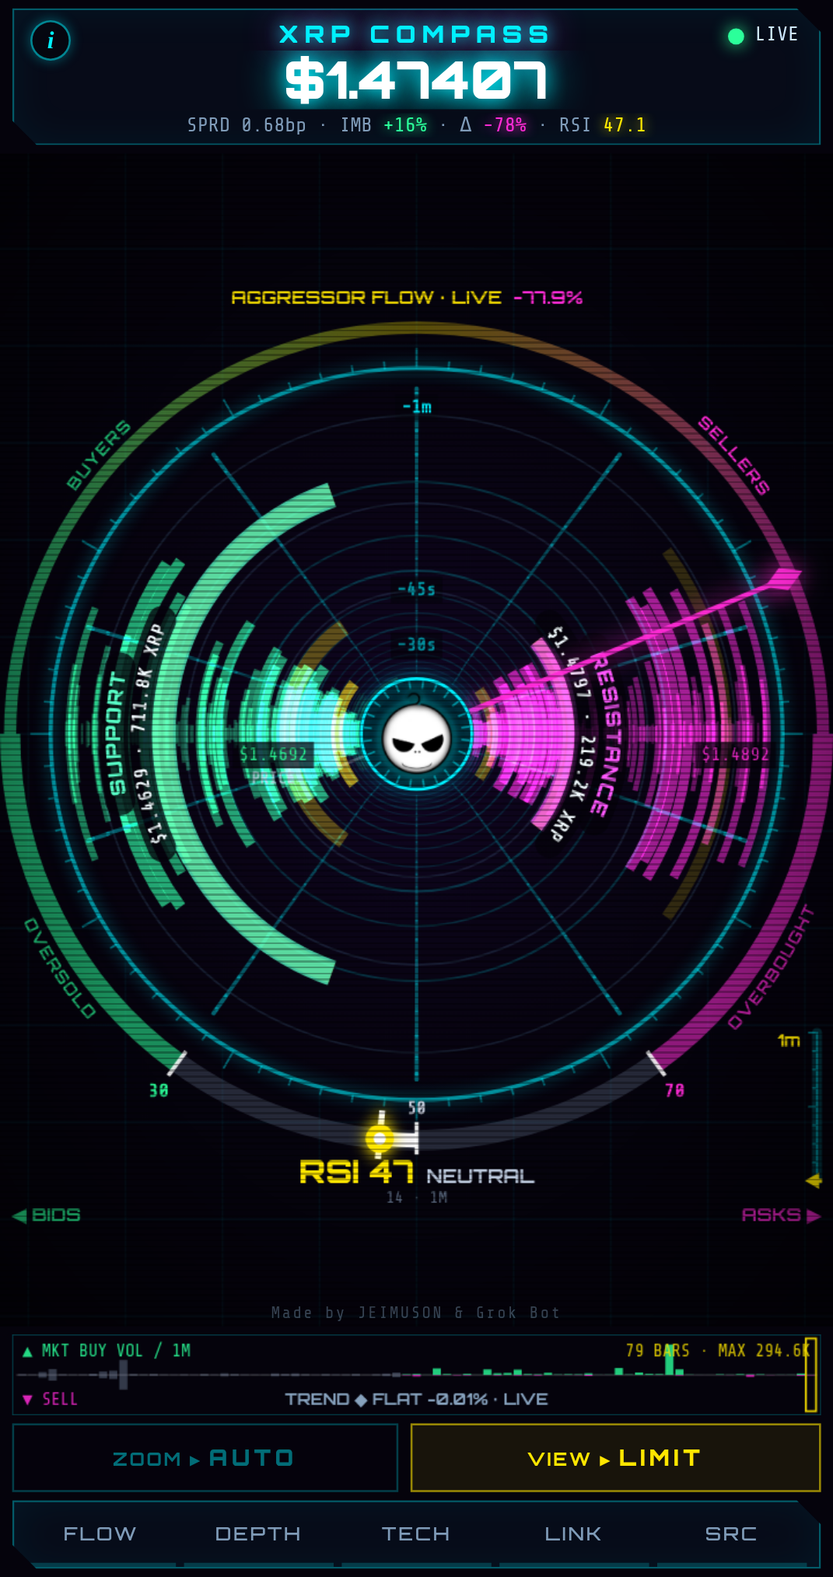
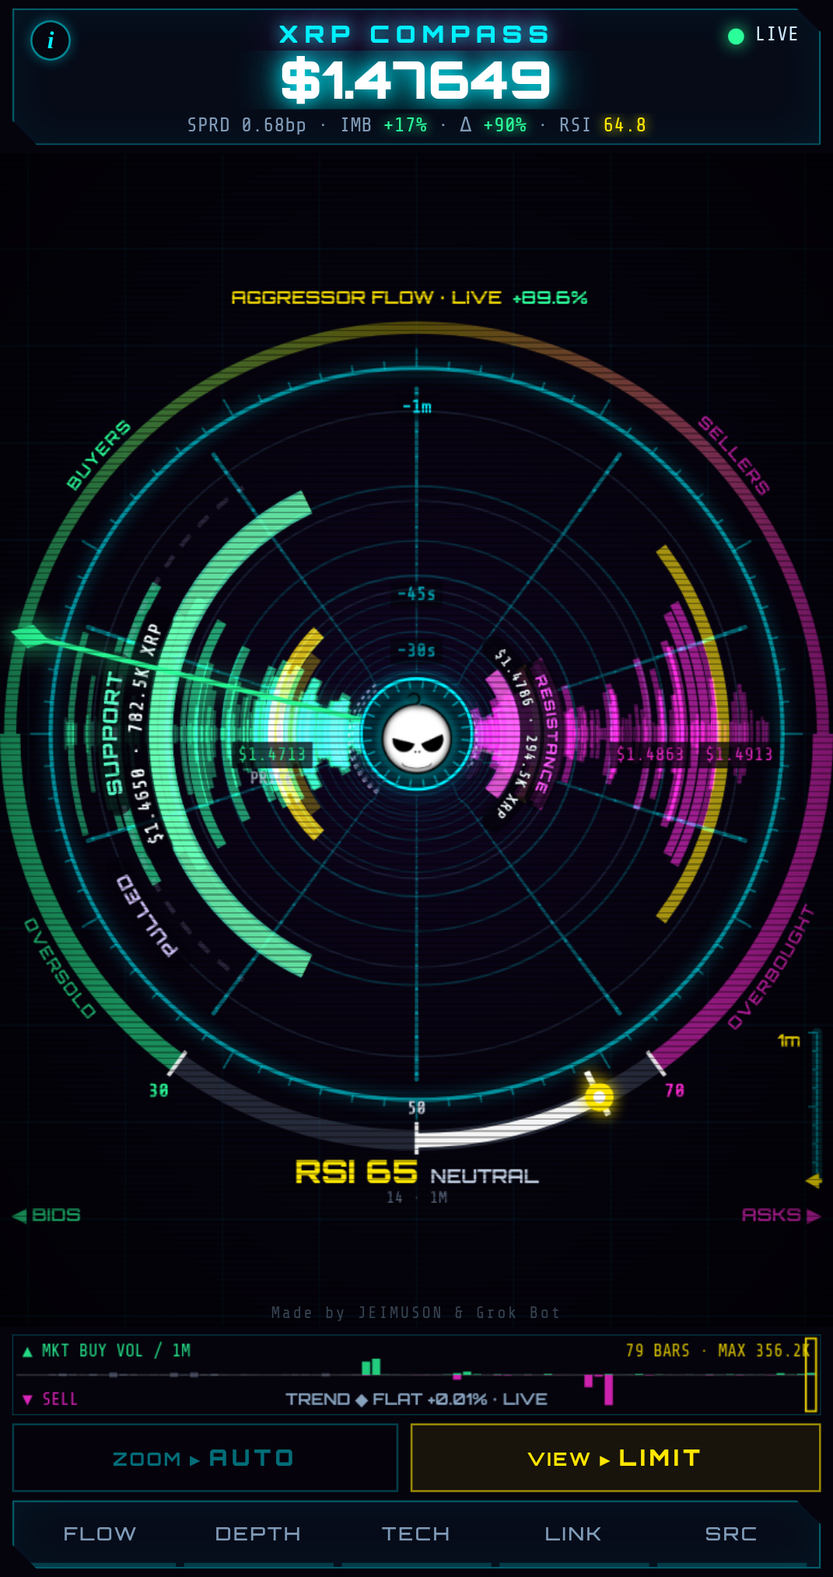
LIMIT: EATEN vs PULLED wall hint (per-venue attribution), bite flash / ghost outline / PULLED-SPOOF? tags; info line (build 20261002-1710)

diff --git a/index.html b/index.html
@@ -3,7 +3,7 @@
 <head>
 <meta charset="utf-8">
 <meta http-equiv="Cache-Control" content="no-cache, no-store, must-revalidate"><meta http-equiv="Pragma" content="no-cache"><meta http-equiv="Expires" content="0">
-<script>window.OFC_BUILD='20261002-1635';(function(){try{if(!/^https?:/.test(location.protocol))return;fetch(location.pathname+'?_='+Date.now(),{cache:'no-store'}).then(r=>r.text()).then(t=>{const m=t.match(/OFC_BUILD='([^']+)'/);if(m&&m[1]!==window.OFC_BUILD&&sessionStorage.getItem('ofcB')!==m[1]){sessionStorage.setItem('ofcB',m[1]);location.replace(location.pathname+'?v='+m[1]+location.hash);}}).catch(()=>{});}catch(e){}})();</script>
+<script>window.OFC_BUILD='20261002-1710';(function(){try{if(!/^https?:/.test(location.protocol))return;fetch(location.pathname+'?_='+Date.now(),{cache:'no-store'}).then(r=>r.text()).then(t=>{const m=t.match(/OFC_BUILD='([^']+)'/);if(m&&m[1]!==window.OFC_BUILD&&sessionStorage.getItem('ofcB')!==m[1]){sessionStorage.setItem('ofcB',m[1]);location.replace(location.pathname+'?v='+m[1]+location.hash);}}).catch(()=>{});}catch(e){}})();</script>
 <meta name="viewport" content="width=device-width,initial-scale=1,viewport-fit=cover,user-scalable=no">
 <meta name="theme-color" content="#05030c">
 <meta name="color-scheme" content="dark">
@@ -170,7 +170,8 @@ body.hublogo #top .logo{display:none}   /* mobile: logo lives in the compass hub
  <li>Distance from the middle = distance from the current price.</li>
  <li>Bigger, brighter arc = bigger wall.</li>
  <li>New walls start at the center and drift outward over time. A wall that stays is <b>holding</b>; one that vanishes was <b>pulled or eaten</b>.</li>
- <li><b class="gr">SUPPORT</b> / <b class="rd">RESISTANCE</b> = the strongest nearby wall on each side.</li></ul>
+ <li><b class="gr">SUPPORT</b> / <b class="rd">RESISTANCE</b> = the strongest nearby wall on each side.</li>
+ <li><b>EATEN</b> (bright bite flash) = a wall shrank while trades hit its price. <b>PULLED</b> (ghostly dashed outline) = it vanished with little trading there; repeat pulls in one zone = <b>SPOOF?</b> Just a hint: intent can't be proven.</li></ul>
  <h3>AUTO ZOOM</h3>
  <ul><li><b>MARKET:</b> normal traffic shows ~30s, dead-slow up to 60s. Price moves tighten it; volume bursts snap to a 15s vortex.</li>
  <li><b>LIMIT:</b> quiet = 15s; heavy trading zooms out to 1m so you see walls get hit.</li>
@@ -532,7 +533,7 @@ function combine(){
   for(const {bb,aa} of per){for(const [p,q] of bb){const k=+key(p).toFixed(6);bm.set(k,(bm.get(k)||0)+q);}for(const [p,q] of aa){const k=+key(p).toFixed(6);am.set(k,(am.get(k)||0)+q);}}
   // venues/USDT books can overlap slightly; levels on the wrong side of the volume-weighted mid are dropped
   sortedB=[...bm.entries()].filter(x=>x[0]<M).sort((x,y)=>y[0]-x[0]);sortedA=[...am.entries()].filter(x=>x[0]>M).sort((x,y)=>x[0]-y[0]);
-  if(EAT&&sortedB.length>12){const u=Math.min(1,(Date.now()-EAT.t0)/EAT.ms);if(!EAT.px){let bd=1e9;for(const x of sortedB){const d=Math.abs(rOf(dispMid-x[0])-0.55*RMAX);if(d<bd){bd=d;EAT.px=x[0];}}EAT.q0=2*Math.max(...sortedB.map(x=>x[1]),...sortedA.map(x=>x[1]));}const e=sortedB.find(x=>x[0]===EAT.px);if(e)e[1]=EAT.q0*(1-0.9*u);}   // test hook: a bid wall being eaten
+  if(EAT&&sortedB.length>12){const u=Math.max(0,Math.min(1,(Date.now()-EAT.t0-EAT.hold)/EAT.ms));if(!EAT.q0){if(!EAT.px){let bd=1e9;for(const x of sortedB){const d=Math.abs(rOf(dispMid-x[0])-0.55*RMAX);if(d<bd){bd=d;EAT.px=x[0];}}}EAT.q0=2*Math.max(...sortedB.map(x=>x[1]),...sortedA.map(x=>x[1]));}let e=sortedB.find(x=>x[0]===EAT.px);if(!e){e=[EAT.px,0];sortedB.push(e);sortedB.sort((x,y)=>y[0]-x[0]);}e[1]=EAT.q0*(1-(EAT.kind==='pull'?0.98:0.9)*u);}   // test hook: a simulated bid wall (eaten: with fills / pulled: without)
   if(sortedB.length>200)sortedB.length=200;if(sortedA.length>200)sortedA.length=200;
   if(!sortedB.length||!sortedA.length){BREADY=false;return;}
   bestBid=sortedB[0][0];bestAsk=sortedA[0][0];mid=simPx(one?(bestBid+bestAsk)/2:M);if(!dispMid)dispMid=mid;BREADY=true;
@@ -914,7 +915,7 @@ function updRefQ(now){let m=0;for(const h of history){const age=(now-h.t)/1000;i
 // LIMIT fade: newest (at the vanishing point) dim-but-visible, brighter as they rush toward you, fade out as they exit past the ring
 const limFade=(age,dz)=>Math.min(1,0.3+age/Math.min(5,LWIN/8))*(0.3+0.7*(1-dz/HIST_SEC))*Math.max(0,Math.min(1,(LWIN-age)/(LWIN*0.12)));
 function drawHistory(now){
-  updRefQ(now);
+  updRefQ(now);const GH=spGhosts(now);
   ctx.save();ctx.beginPath();ctx.rect(0,0,W,H);ctx.arc(CX,CY,R0*1.02,0,Math.PI*2,true);ctx.clip();   // keep the hub readout clean over the newest datactx.globalCompositeOperation='lighter';
   const stepH=Q===2?1:Q===1?2:3;
   for(let hi=history.length-1-((history.length-1)%stepH);hi>=0;hi-=stepH){const h=history[hi];if(!h)continue;
@@ -924,6 +925,9 @@ function drawHistory(now){
       for(const [px,q] of lv){
         const r=rOf(px-dispMid)*p.s; if(r>RMAX*1.02*p.s)continue;
         const sp=levelSpan(q,REFQ||h.maxq), a0=baseAng(side);
+        {const G=GH.size?GH.get(side+'|'+px):null;if(G&&h.t<=G.tt){   // PULLED: earlier copies of the wall become a ghostly dashed, flickering outline drifting out the tunnel
+          const fl=0.55+0.45*Math.sin(now/70+px*977+hi*1.7),col=G.spoof?'255,110,235':'215,200,255';ctx.save();ctx.setLineDash([Math.max(2,7*p.s),Math.max(2,6*p.s)]);ctx.lineDashOffset=-now/45*p.s;
+          ctx.strokeStyle=`rgba(${col},${((0.38+0.55*fade)*fl).toFixed(3)})`;ctx.shadowColor=`rgba(${col},.8)`;ctx.shadowBlur=Q>0?6:0;ctx.lineWidth=Math.max(1.2,(1.5+3*Math.pow(q/h.maxq,0.6))*p.s);ctx.beginPath();ctx.arc(p.x,p.y,r,a0-sp,a0+sp);ctx.stroke();ctx.restore();continue;}}
         ctx.strokeStyle=rgba(c,0.05+0.32*fade*Math.pow(q/h.maxq,0.5));
         ctx.lineWidth=Math.max(0.6,(1+5*Math.pow(q/h.maxq,0.6))*p.s);
         ctx.beginPath();ctx.arc(p.x,p.y,r,a0-sp,a0+sp);ctx.stroke();
@@ -958,7 +962,7 @@ function drawKeyWalls(now,maxq){   // SUPPORT (bid) / RESISTANCE (ask): highligh
     let LY=lay(1);if(LY.totM>allow)LY=lay(Math.max(0.72,allow/LY.totM));   // short arc -> shrink the text (down to 72%) ...
     const {fs1,fs2,R1,R2,F1,F2,totM}=LY;
     let al=Math.max(0,Math.min(1,(r-R0*1.12)/(R0*0.45)))*Math.max(0,Math.min(1,(allow*1.35-totM)/(allow*0.35)));   // ... then fade if still too long / too close to the hub
-    if(al<=0.03)continue;KLB[side]={r0:R1-3,r1:R2+fs1+3};
+    if(al<=0.03)continue;KLB[side]={r0:R1-3,r1:R2+fs1+3,ah:totM/2+0.04};
     ctx.save();ctx.globalAlpha=al;ctx.textAlign='center';ctx.textBaseline='alphabetic';
     for(const [txt,R,font,col,glow] of [[L1,R1,F1,'#f2fbff',0],[L2,R2,F2,rgba(cc,1),10]]){
       ctx.font=font;const fz=parseFloat(font.split(' ')[1]),th=a0,T=arcText(txt,R,th);
@@ -967,6 +971,86 @@ function drawKeyWalls(now,maxq){   // SUPPORT (bid) / RESISTANCE (ask): highligh
       for(const ch of T.ch){const x=CX+Math.cos(ch.a)*R,y=CY+Math.sin(ch.a)*R;ctx.save();ctx.translate(x,y);ctx.rotate(ch.rot);ctx.fillText(ch.c,0,0);ctx.restore();}
       if(glow&&Q>0){ctx.shadowColor=rgba(c,1);ctx.shadowBlur=glow;ctx.globalAlpha=0.6*al;for(const ch of T.ch){ctx.save();ctx.translate(CX+Math.cos(ch.a)*R,CY+Math.sin(ch.a)*R);ctx.rotate(ch.rot);ctx.fillText(ch.c,0,0);ctx.restore();}ctx.globalAlpha=al;}}
     ctx.restore();}
+}
+// ---------------- LIMIT spoof hint: EATEN vs PULLED ----------------
+// Tracks significant walls (top 6 per side, >= SP_REL x the span reference REFQ and >= $SP_USD). When one drops >= SP_DROP from its
+// peak of the last 10 s, the drop is compared with aggressor volume traded AT/THROUGH that price since the peak (selected venue only when SRC != ALL):
+//   price went through the level, or traded volume >= 50% of the drop  -> EATEN  (bright bite flash)
+//   traded volume < 20% of the drop and price never reached the level -> PULLED (ghost dashed copies + tag on big walls)
+//   only when the shrink is attributable to venue book(s) whose depth window still covers the price, the wall was sustained >= 3 s,
+//   one mark per zone per 15 s.  in between -> no mark.  2+ pulls within the same zone (±max(3 buckets, 0.03%)) in 5 min -> 'SPOOF?'.
+//   Smaller 25% steps that trades cover >= 50% flash a small 'bite'. A hint only: intent can't be proven.
+const SP_DROP=0.6, SP_EAT=0.5, SP_PULL=0.2, SP_REL=0.25, SP_USD=25000, SP_PEAK=10000, SP_MINAGE=1500, SP_REPEAT=300000, SP_GHOST=5, SP_HOLD=3, SP_DEDUP=15000;
+const SPF={trk:new Map(),ev:[],pulls:[],src:null,sum:0,n:{eaten:0,pulled:0,spoof:0,bite:0}};
+function spVol(side,px,t0,tol,vs){let v=0,thr=false,reach=false;
+  for(let i=trades.length-1;i>=0;i--){const t=trades[i];if(t.t<t0)break;if(SRC!=='all'&&t.v!==SRC)continue;if(vs&&!vs.includes(t.v))continue;
+    if(side==='bid'){if(t.px<=px+tol){reach=true;if(t.side==='sell')v+=t.qty;if(t.px<px-tol)thr=true;}}
+    else{if(t.px>=px-tol){reach=true;if(t.side==='buy')v+=t.qty;if(t.px>px+tol)thr=true;}}}
+  return {v,thr,reach};}
+function spVen(){   // per-venue levels mapped to the merged bucket keys + each venue's deepest visible price (depth-window edge)
+  const use=BOOKS.filter(B=>B.ready&&(SRC==='all'||B.v===SRC)&&VEN[B.v].st==='LIVE'),one=use.length===1,key=p=>+(one?p:Math.round(p/BUCK)*BUCK).toFixed(6);
+  return use.map(B=>{const bb=topLv(B.b,true,VDEPTH),aa=topLv(B.a,false,VDEPTH);return {v:B.v,bb,aa,kb:key,ka:key,eb:bb.length?bb[bb.length-1][0]:0,ea:aa.length?aa[aa.length-1][0]:Infinity};});}
+function spEv(o){o.tt=performance.now();SPF.ev.push(o);SPF.n[o.spoof?'spoof':o.kind]++;if(SPF.ev.length>80)SPF.ev.shift();}
+setInterval(()=>{
+  if(VIEW!=='limit'||!BREADY||!mid||!REFQ||!sortedB.length||!sortedA.length){SPF.trk.clear();return;}
+  const n=Date.now(), tol=BUCK/2+mid*0.00002, M={bid:new Map(sortedB),ask:new Map(sortedA)};
+  if(EAT&&EAT.kind==='eat'&&EAT.px){const e=M.bid.get(EAT.px);if(EAT.lq!=null&&e!=null&&e<EAT.lq)trades.push({t:n,side:'sell',qty:EAT.lq-e,px:EAT.px,v:SRC==='all'?'kraken':SRC});EAT.lq=e;}   // test hook: fills for a simulated eaten wall
+  let sum=0;for(const x of sortedB)sum+=x[1];for(const x of sortedA)sum+=x[1];
+  if(SPF.src!==SRC||(SPF.sum&&sum<0.6*SPF.sum)){SPF.trk.clear();SPF.src=SRC;SPF.sum=sum;return;}   // source switch / venue resync: whole book jumped -> not a pull
+  SPF.sum=sum;
+  for(const [side,lv] of [['bid',sortedB],['ask',sortedA]])for(const [px,q] of topBySize(lv,6)){
+    if(q<SP_REL*REFQ||q*px<SP_USD)continue;const k=side+'|'+px;if(!SPF.trk.has(k))SPF.trk.set(k,{side,px,t0:n,s:[],bq:q,bt:n});}
+  if(!SPF.trk.size)return;
+  // per-venue size of every tracked wall (attribute a drop to the venue(s) that actually shrank)
+  const VV=spVen(),VE={},TB=new Map(),TA=new Map();for(const T of SPF.trk.values()){T.cv={};(T.side==='bid'?TB:TA).set(T.px,T);}
+  for(const V of VV){VE[V.v]=V;if(TB.size)for(const [p,q] of V.bb){const T=TB.get(V.kb(p));if(T)T.cv[V.v]=(T.cv[V.v]||0)+q;}if(TA.size)for(const [p,q] of V.aa){const T=TA.get(V.ka(p));if(T)T.cv[V.v]=(T.cv[V.v]||0)+q;}}
+  for(const [k,T] of SPF.trk){
+    const L=T.side==='bid'?sortedB:sortedA, q=M[T.side].get(T.px)||0;
+    if(T.side==='bid'?T.px<L[L.length-1][0]:T.px>L[L.length-1][0]){SPF.trk.delete(k);continue;}   // level fell off the visible book: unknown
+    T.s.push([n,q,T.cv]);while(T.s.length&&n-T.s[0][0]>SP_PEAK)T.s.shift();
+    let pk=0,tp=n,pv={};for(const [t,v,cv] of T.s)if(v>=pk){pk=v;tp=t;pv=cv;}
+    if(pk<SP_REL*REFQ*0.7||pk*T.px<SP_USD){SPF.trk.delete(k);continue;}   // no longer significant
+    if(n-T.t0<SP_MINAGE)continue;
+    if(q>T.bq){T.bq=q;T.bt=n;}
+    else if(T.bq-q>=0.25*pk){const r=spVol(T.side,T.px,T.bt-500,tol,null);if(r.v>=0.5*(T.bq-q))spEv({kind:'bite',side:T.side,px:T.px,q0:T.bq,q1:q});T.bq=q;T.bt=n;}
+    if(q<=(1-SP_DROP)*pk){
+      SPF.trk.delete(k);
+      const drop=pk-q, sim=EAT&&EAT.px===T.px&&T.side==='bid';
+      let held=0;for(const s of T.s)if(s[1]>=0.6*pk)held++;
+      if(!sim&&held*0.25<SP_HOLD)continue;   // flicker: was never a sustained wall
+      const dv=sim?null:Object.keys(pv).filter(v=>pv[v]-(T.cv[v]||0)>0.15*drop);
+      if(dv&&!dv.length)continue;   // drop not attributable to a venue book
+      let cover=true;if(dv)for(const v of dv){const V=VE[v];if(!V){cover=false;break;}const best=T.side==='bid'?V.bb[0]&&Math.max(...V.bb.slice(0,3).map(x=>x[0])):V.aa[0]&&Math.min(...V.aa.slice(0,3).map(x=>x[0]));
+        const edge=T.side==='bid'?V.eb:V.ea,mg=Math.abs(best-edge)*0.12+tol;if(T.side==='bid'?T.px<=edge+mg:T.px>=edge-mg){cover=false;break;}}
+      if(!cover)continue;   // the venue's depth window no longer reaches this price -> can't tell
+      const r=spVol(T.side,T.px,tp-500,tol,dv), ratio=r.v/drop, thr=r.thr||(T.side==='bid'?bestBid<T.px-tol:bestAsk>T.px+tol);
+      const kind=thr||ratio>=SP_EAT?'eaten':(ratio<SP_PULL&&!r.reach?'pulled':null);
+      if(!kind)continue;
+      const z=Math.max(BUCK*3,T.px*0.0003),o={kind,side:T.side,px:T.px,q0:pk,q1:q,ratio:+ratio.toFixed(2),t:n,big:pk>=0.35*REFQ,spoof:false,ven:dv?dv.join(','):'sim'};
+      if(kind==='pulled'){SPF.pulls=SPF.pulls.filter(p=>n-p.t<SP_REPEAT);o.spoof=SPF.pulls.some(p=>p.side===T.side&&Math.abs(p.px-T.px)<=z);SPF.pulls.push({t:n,side:T.side,px:T.px});}
+      if(SPF.ev.some(e=>e.kind===kind&&e.side===T.side&&Math.abs(e.px-T.px)<=z&&n-e.t<SP_DEDUP&&!(o.spoof&&!e.spoof)))continue;   // one mark per zone per 15 s
+      spEv(o);}
+  }
+},250);
+function spGhosts(now){const G=new Map();for(const o of SPF.ev)if(o.kind==='pulled'&&now-o.tt<(LWIN+2)*1000)G.set(o.side+'|'+o.px,o);return G;}
+function spTag(txt,r,a0,col,al,fz){ctx.save();ctx.globalAlpha=al;ctx.font=`900 ${fz}px Orbitron,sans-serif`;ctx.textAlign='center';ctx.textBaseline='alphabetic';
+  const T=arcText(txt,r,a0);ctx.lineCap='round';ctx.strokeStyle='rgba(5,3,12,.8)';ctx.lineWidth=fz+5;ctx.beginPath();ctx.arc(CX,CY,r+fz*0.36,a0-T.tot/2-2/r,a0+T.tot/2+2/r);ctx.stroke();
+  ctx.fillStyle=col;ctx.shadowColor=col;ctx.shadowBlur=Q>0?8:0;for(const ch of T.ch){ctx.save();ctx.translate(CX+Math.cos(ch.a)*r,CY+Math.sin(ch.a)*r);ctx.rotate(ch.rot);ctx.fillText(ch.c,0,0);ctx.restore();}ctx.restore();}
+function drawSpoofFx(now){   // front layer: EATEN/bite flash; PULLED ghost at the wall's live spot for a few seconds (+ PULLED / SPOOF? tag on big ones)
+  for(const o of SPF.ev){const age=(now-o.tt)/1000;if(age>SP_GHOST)continue;const r=rOf(o.px-dispMid);if(r>RMAX*1.02||r<R0*1.1)continue;
+    const a0=baseAng(o.side),c=o.side==='bid'?COL.bid:COL.ask,sp=levelSpan(o.q0,REFQ||o.q0);
+    if(o.kind!=='pulled'){const D=o.kind==='eaten'?0.9:0.55;if(age>D)continue;const u=age/D,hc=`${Math.min(255,c[0]+110)},${Math.min(255,c[1]+110)},${Math.min(255,c[2]+110)}`,big=o.kind==='eaten';
+      ctx.save();ctx.globalCompositeOperation='lighter';ctx.strokeStyle=`rgba(${hc},${((1-u)*(1-u)*(big?1:0.7)).toFixed(3)})`;ctx.shadowColor=rgba(c,1);ctx.shadowBlur=Q>0?(big?26:16):0;
+      ctx.lineCap='round';ctx.lineWidth=(big?14:8)*(1-u)+2;const s2=sp*(1-0.35*u);ctx.beginPath();ctx.arc(CX,CY,r+u*6,a0-s2,a0+s2);ctx.stroke();
+      ctx.lineWidth=1.6;const N=big?9:5;for(let i=0;i<N;i++){const f=((i*0.6180339+o.px*7.31)%1)*2-1,ang=a0+s2*f,d0=r+4+u*6,d1=r+8+u*(big?36:20);
+        ctx.beginPath();ctx.moveTo(CX+Math.cos(ang)*d0,CY+Math.sin(ang)*d0);ctx.lineTo(CX+Math.cos(ang)*d1,CY+Math.sin(ang)*d1);ctx.stroke();}   // bite sparks
+      ctx.restore();continue;}
+    const u=age/SP_GHOST,fl=0.6+0.4*Math.sin(now/70+o.px*911),col=o.spoof?'255,110,235':'215,200,255';
+    ctx.save();ctx.setLineDash([7,6]);ctx.lineDashOffset=-now/45;ctx.lineWidth=2.2;ctx.strokeStyle=`rgba(${col},${((1-u)*0.85*fl).toFixed(3)})`;ctx.shadowColor=`rgba(${col},.9)`;ctx.shadowBlur=Q>0?10:0;
+    ctx.beginPath();ctx.arc(CX,CY,r,a0-sp,a0+sp);ctx.stroke();ctx.restore();
+    if(o.big||o.spoof){const fz=WIDE?11:9,txt=o.spoof?'SPOOF?':'PULLED',R=r+fz*0.4+6;ctx.save();ctx.font=`900 ${fz}px Orbitron,sans-serif`;const ht=ctx.measureText(txt).width/R/2+0.02;ctx.restore();
+      const K=KLB[o.side],off=Math.max(ht+Math.max(0.12,22/R),K&&R+fz>K.r0&&R-fz<K.r1?K.ah+ht+0.04:0),ta=a0+(o.side==='bid'?-off:off);   // just below the horizon (clear of price tags), past SUPPORT/RESISTANCE text
+      spTag(txt,R,ta,o.spoof?'#ff6eeb':'#d7c8ff',Math.min(1,(1-u)*1.6)*Math.max(0,Math.min(1,(r-R0*1.12)/(R0*0.45))),fz);}}
 }
 let topWallsOld;
 function drawBook(now){
@@ -989,6 +1073,7 @@ function drawBook(now){
   }
   ctx.shadowBlur=0;ctx.globalCompositeOperation='source-over';
   drawKeyWalls(now,maxq);
+  drawSpoofFx(now);
   ctx.restore();
 }
 
@@ -1618,7 +1703,7 @@ function frame(){
 connect();seedREST();
 requestAnimationFrame(frame);
 document.addEventListener('visibilitychange',()=>{if(!document.hidden&&(!ws||ws.readyState>1)){backoff=1000;connect();}});
-window.__ofc={simEat(ms){EAT={t0:Date.now(),ms,px:0,q0:0};},get eat(){const n=performance.now();return EAT&&{px:EAT.px,q0:EAT.q0,ref:REFQ,cp:history.filter((h,i)=>i%8===0&&(n-h.t)/1000<=LWIN).map(h=>{const e=h.b.find(x=>x[0]===EAT.px);return e?[Math.round((n-h.t)/1000),+levelSpan(e[1],REFQ||h.maxq).toFixed(3)]:null;}).filter(Boolean)}},get mt(){return {w:+MT.w.toFixed(1),q:+MT.q.toFixed(2),z:+MT.z.toFixed(2),sg:MT.sg,burst:burst.on}},get lt(){return {w:+LT.w.toFixed(1),rho:+LT.rho.toFixed(2),lwin:+LWIN.toFixed(1),burst:burst.on}},get keyWalls(){return VIEW==='limit'?{...KEYW,nSig:{bid:topWalls.bid.length,ask:topWalls.ask.length},marks:PLBL.map(q=>q.txt)}:null},simFlat(){SIM={on:true,base:mid,t0:0,dir:0,amp:0,ramp:1};},simMove(dir,frac,ramp){SIM.t0=Date.now();SIM.dir=dir;SIM.amp=frac*SIM.base;SIM.ramp=ramp;},get resp(){const v=proj(HIST_SEC),m=proj(HIST_SEC*0.4);return {tw:+(TWIST_MAX*VSP.w*180/Math.PI).toFixed(2),vp:+(v.y-CY).toFixed(1),vm:+(m.y-CY).toFixed(1),o3:+((window.__ofcR||{}).o3||0).toFixed(1),o8:+((window.__ofcR||{}).o8||0).toFixed(1),mw:+MWIN.toFixed(1),dr:dispRange,pr:pathRef}},get bp(){return BP.length},autoOff(){pillT=0;if(rangeAuto)pillTap();},get dr(){return dispRange},get hubLogo(){return !WIDE&&LOGO.complete&&LOGO.naturalWidth>0},get hdrLogo(){const e=document.querySelector('#top .logo');return !!e&&getComputedStyle(e).display!=='none'},get flares(){return VIEW==='market'?[...FLR.entries()].map(([k,F])=>{const p=F.dx!=null?{x:F.dx,y:F.dy}:null;return {k,T:F.T,tT:trailT,st:trailStep,w:+F.w.toFixed(2),on:!!F.on,side:F.c===COL.bid?'bid':'ask',x:p?Math.round(p.x):null,y:p?Math.round(p.y):null};}):null},winTo(S){intro=null;setAuto(false);syncZA();let lo=0,hi=1;const f=u=>mWinOf(zR(u));const dec=f(0)>f(1);for(let i=0;i<40;i++){const m=(lo+hi)/2;if((f(m)>S)===dec)lo=m;else hi=m;}rangeFrac=zR((lo+hi)/2);return f((lo+hi)/2);},get vring(){if(VIEW!=='market')return null;const p=proj(HIST_SEC);return {full:+(RMAX*p.s).toFixed(1),r:+(RMAX*p.s).toFixed(1),x:Math.round(p.x),y:Math.round(p.y),R0:Math.round(R0)}},get twist(){return VIEW==='market'?+(TWIST_MAX*VSP.w*180/Math.PI).toFixed(1):0},get spin(){return {w:+VSP.w.toFixed(3),ph:+VSP.ph.toFixed(3)}},zManual(){intro=null;setAuto(false);syncZA();},get burst(){return {...burst,now:Date.now()}},simBurst(usd){const px=trades.length?trades[trades.length-1].px:mid,n=Date.now();for(let k=0;k<8;k++)trades.push({t:n-(7-k)*300,side:k%2?'sell':'buy',qty:usd/8/px,px,v:'kraken'});trailDirty=true;},get auto(){return rangeAuto},zAuto(){intro=null;setAuto(true);syncZA();},zIn(){intro=null;setAuto(false);rangeFrac=zR(1);syncZA();},get mwin(){return +MWIN.toFixed(1)},get lwin(){return +LWIN.toFixed(1)},get prange(){return PRANGE},get disp(){return dispRange},get plbl(){return PLBL.map(q=>q.txt)},get hubTxt(){return mid?hubTxt():null},get head(){return {x:Math.round(TRHEAD.x),y:Math.round(TRHEAD.y),CX,CY,R0:Math.round(R0),RMAX:Math.round(RMAX)}},get logo(){const g=logoGeom();return g&&{x:Math.round(g.x),y:Math.round(g.y),S:g.S,CX,CY,RMAX,W,H,Z:zbarGeom()}},get ven(){return Object.fromEntries(Object.entries(VEN).map(([k,v])=>[k,{st:v.st,share:+v.share.toFixed(3),books:BOOKS.filter(B=>B.v===k).map(B=>({k:B.k,ready:B.ready,n:B.b.size+B.a.size,ck:B.ckOk,ckBad:B.ckBad,resyncs:B.resyncs}))}]))},get src(){return SRC},setSource,get comb(){return {ready:BREADY,mid,bestBid,bestAsk,nb:sortedB.length,na:sortedA.length}},get raw(){return RAW.length},get flow(){const f=flow(30);return {b:Math.round(f.b),s:Math.round(f.s),r:+f.r.toFixed(3)}},get trendW(){return trendWin()},get win(){return winSec},get heatN(){return Object.fromEntries(Object.entries(HEATS).map(([w,H])=>[w,H.m.size]))},get intro(){return intro},book,get mid(){return mid},get ck(){return {ckOk,ckBad,ckLast}},get trades(){return tradeCount},get bubbles(){return bubbles.length},get hist(){return history.length},get ind(){return ind},get candles(){return candles.size},get dir(){return INBOUND?'in':'out'},get view(){return VIEW},get layout(){return {W,H,CX,CY,RMAX,R0,WIDE}},get tunnel(){const far=proj(HIST_SEC);return {FOCAL,farScale:far.s,farY:far.y-CY,dispRange,fitFrac,rangeAuto,RMAX}},zoom(f){setAuto(false);rangeFrac=Math.min(0.08,Math.max(0.0005,rangeFrac*f));},autoZoom(){setAuto(true);},get autoOn(){return rangeAuto},get zgeom(){return zbarGeom()},get conn(){return connState},get fps(){return FPS},get q(){return Q},get rc(){return reconnects},forceDrop(){ws&&ws.close();}};
+window.__ofc={simEat(ms,kind,hold,px){EAT={t0:Date.now(),ms,kind:kind||'eat',hold:hold==null?0:hold,px:px||0,q0:0,lq:null};},get spoof(){return {n:{...SPF.n},trk:SPF.trk.size,ev:SPF.ev.slice(-6).map(o=>({k:o.kind,s:o.side,px:o.px,q0:+o.q0.toFixed(1),q1:+o.q1.toFixed(1),ratio:o.ratio,spoof:o.spoof,big:o.big,ven:o.ven}))}},get eat(){const n=performance.now();return EAT&&{px:EAT.px,q0:EAT.q0,ref:REFQ,cp:history.filter((h,i)=>i%8===0&&(n-h.t)/1000<=LWIN).map(h=>{const e=h.b.find(x=>x[0]===EAT.px);return e?[Math.round((n-h.t)/1000),+levelSpan(e[1],REFQ||h.maxq).toFixed(3)]:null;}).filter(Boolean)}},get mt(){return {w:+MT.w.toFixed(1),q:+MT.q.toFixed(2),z:+MT.z.toFixed(2),sg:MT.sg,burst:burst.on}},get lt(){return {w:+LT.w.toFixed(1),rho:+LT.rho.toFixed(2),lwin:+LWIN.toFixed(1),burst:burst.on}},get keyWalls(){return VIEW==='limit'?{...KEYW,nSig:{bid:topWalls.bid.length,ask:topWalls.ask.length},marks:PLBL.map(q=>q.txt)}:null},simFlat(){SIM={on:true,base:mid,t0:0,dir:0,amp:0,ramp:1};},simMove(dir,frac,ramp){SIM.t0=Date.now();SIM.dir=dir;SIM.amp=frac*SIM.base;SIM.ramp=ramp;},get resp(){const v=proj(HIST_SEC),m=proj(HIST_SEC*0.4);return {tw:+(TWIST_MAX*VSP.w*180/Math.PI).toFixed(2),vp:+(v.y-CY).toFixed(1),vm:+(m.y-CY).toFixed(1),o3:+((window.__ofcR||{}).o3||0).toFixed(1),o8:+((window.__ofcR||{}).o8||0).toFixed(1),mw:+MWIN.toFixed(1),dr:dispRange,pr:pathRef}},get bp(){return BP.length},autoOff(){pillT=0;if(rangeAuto)pillTap();},get dr(){return dispRange},get hubLogo(){return !WIDE&&LOGO.complete&&LOGO.naturalWidth>0},get hdrLogo(){const e=document.querySelector('#top .logo');return !!e&&getComputedStyle(e).display!=='none'},get flares(){return VIEW==='market'?[...FLR.entries()].map(([k,F])=>{const p=F.dx!=null?{x:F.dx,y:F.dy}:null;return {k,T:F.T,tT:trailT,st:trailStep,w:+F.w.toFixed(2),on:!!F.on,side:F.c===COL.bid?'bid':'ask',x:p?Math.round(p.x):null,y:p?Math.round(p.y):null};}):null},winTo(S){intro=null;setAuto(false);syncZA();let lo=0,hi=1;const f=u=>mWinOf(zR(u));const dec=f(0)>f(1);for(let i=0;i<40;i++){const m=(lo+hi)/2;if((f(m)>S)===dec)lo=m;else hi=m;}rangeFrac=zR((lo+hi)/2);return f((lo+hi)/2);},get vring(){if(VIEW!=='market')return null;const p=proj(HIST_SEC);return {full:+(RMAX*p.s).toFixed(1),r:+(RMAX*p.s).toFixed(1),x:Math.round(p.x),y:Math.round(p.y),R0:Math.round(R0)}},get twist(){return VIEW==='market'?+(TWIST_MAX*VSP.w*180/Math.PI).toFixed(1):0},get spin(){return {w:+VSP.w.toFixed(3),ph:+VSP.ph.toFixed(3)}},zManual(){intro=null;setAuto(false);syncZA();},get burst(){return {...burst,now:Date.now()}},simBurst(usd){const px=trades.length?trades[trades.length-1].px:mid,n=Date.now();for(let k=0;k<8;k++)trades.push({t:n-(7-k)*300,side:k%2?'sell':'buy',qty:usd/8/px,px,v:'kraken'});trailDirty=true;},get auto(){return rangeAuto},zAuto(){intro=null;setAuto(true);syncZA();},zIn(){intro=null;setAuto(false);rangeFrac=zR(1);syncZA();},get mwin(){return +MWIN.toFixed(1)},get lwin(){return +LWIN.toFixed(1)},get prange(){return PRANGE},get disp(){return dispRange},get plbl(){return PLBL.map(q=>q.txt)},get hubTxt(){return mid?hubTxt():null},get head(){return {x:Math.round(TRHEAD.x),y:Math.round(TRHEAD.y),CX,CY,R0:Math.round(R0),RMAX:Math.round(RMAX)}},get logo(){const g=logoGeom();return g&&{x:Math.round(g.x),y:Math.round(g.y),S:g.S,CX,CY,RMAX,W,H,Z:zbarGeom()}},get ven(){return Object.fromEntries(Object.entries(VEN).map(([k,v])=>[k,{st:v.st,share:+v.share.toFixed(3),books:BOOKS.filter(B=>B.v===k).map(B=>({k:B.k,ready:B.ready,n:B.b.size+B.a.size,ck:B.ckOk,ckBad:B.ckBad,resyncs:B.resyncs}))}]))},get src(){return SRC},setSource,get comb(){return {ready:BREADY,mid,bestBid,bestAsk,nb:sortedB.length,na:sortedA.length}},get raw(){return RAW.length},get flow(){const f=flow(30);return {b:Math.round(f.b),s:Math.round(f.s),r:+f.r.toFixed(3)}},get trendW(){return trendWin()},get win(){return winSec},get heatN(){return Object.fromEntries(Object.entries(HEATS).map(([w,H])=>[w,H.m.size]))},get intro(){return intro},book,get mid(){return mid},get ck(){return {ckOk,ckBad,ckLast}},get trades(){return tradeCount},get bubbles(){return bubbles.length},get hist(){return history.length},get ind(){return ind},get candles(){return candles.size},get dir(){return INBOUND?'in':'out'},get view(){return VIEW},get layout(){return {W,H,CX,CY,RMAX,R0,WIDE}},get tunnel(){const far=proj(HIST_SEC);return {FOCAL,farScale:far.s,farY:far.y-CY,dispRange,fitFrac,rangeAuto,RMAX}},zoom(f){setAuto(false);rangeFrac=Math.min(0.08,Math.max(0.0005,rangeFrac*f));},autoZoom(){setAuto(true);},get autoOn(){return rangeAuto},get zgeom(){return zbarGeom()},get conn(){return connState},get fps(){return FPS},get q(){return Q},get rc(){return reconnects},forceDrop(){ws&&ws.close();}};
 })();
 // ---------------- INFO overlay: what am I looking at? (✕ / tap outside / Esc) ----------------
 (function(){const I=document.getElementById('info'),B=document.getElementById('infoBtn');if(!I||!B)return;
